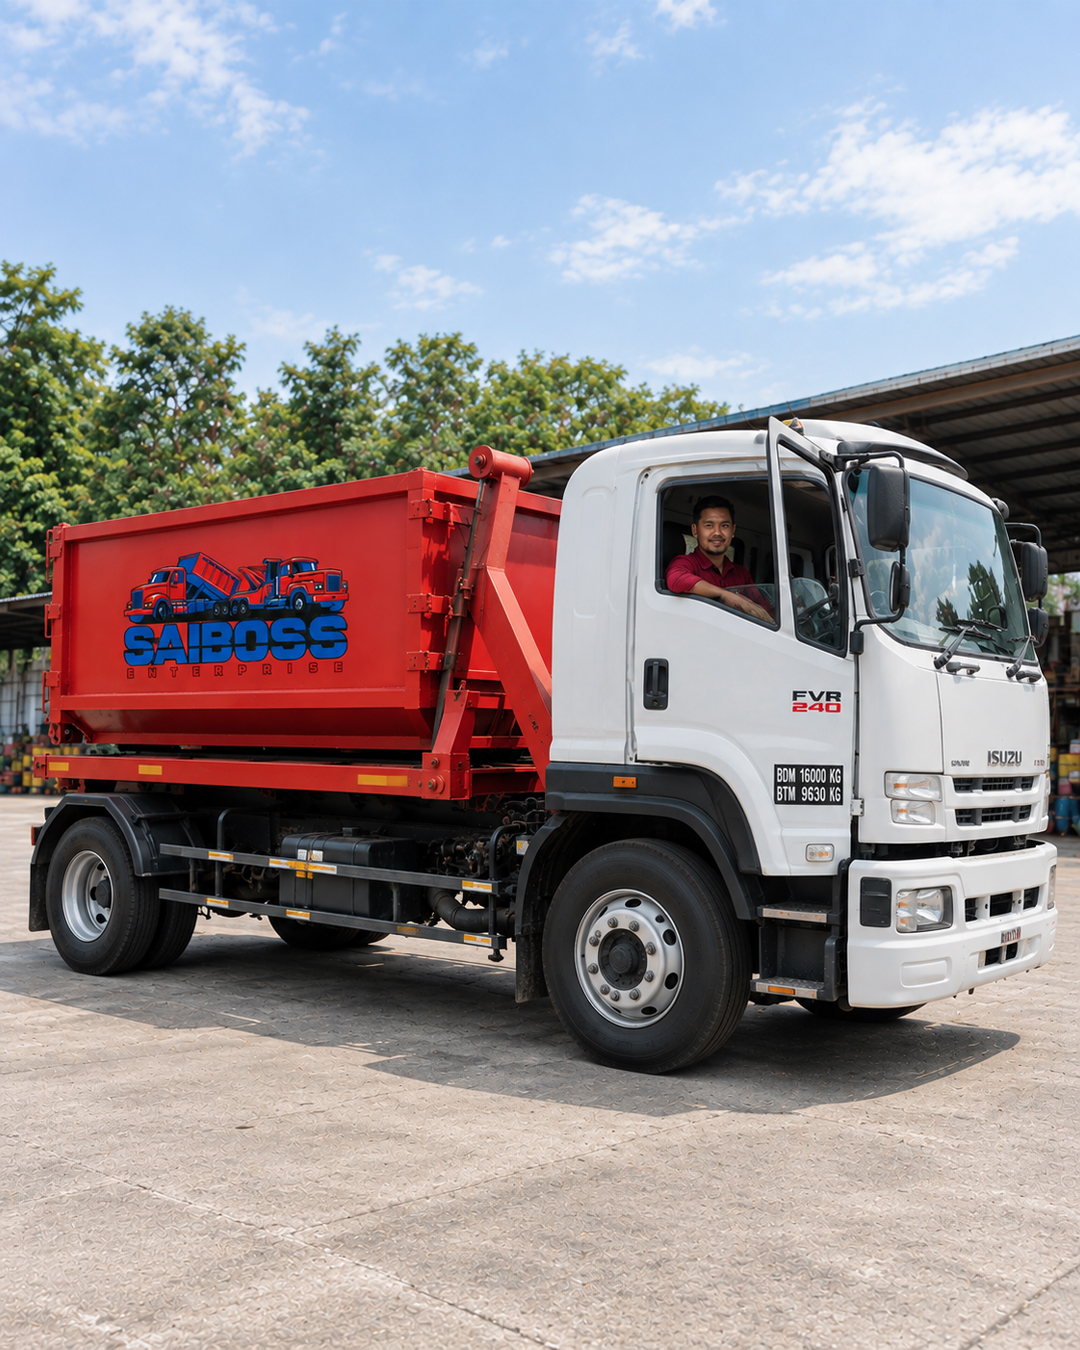
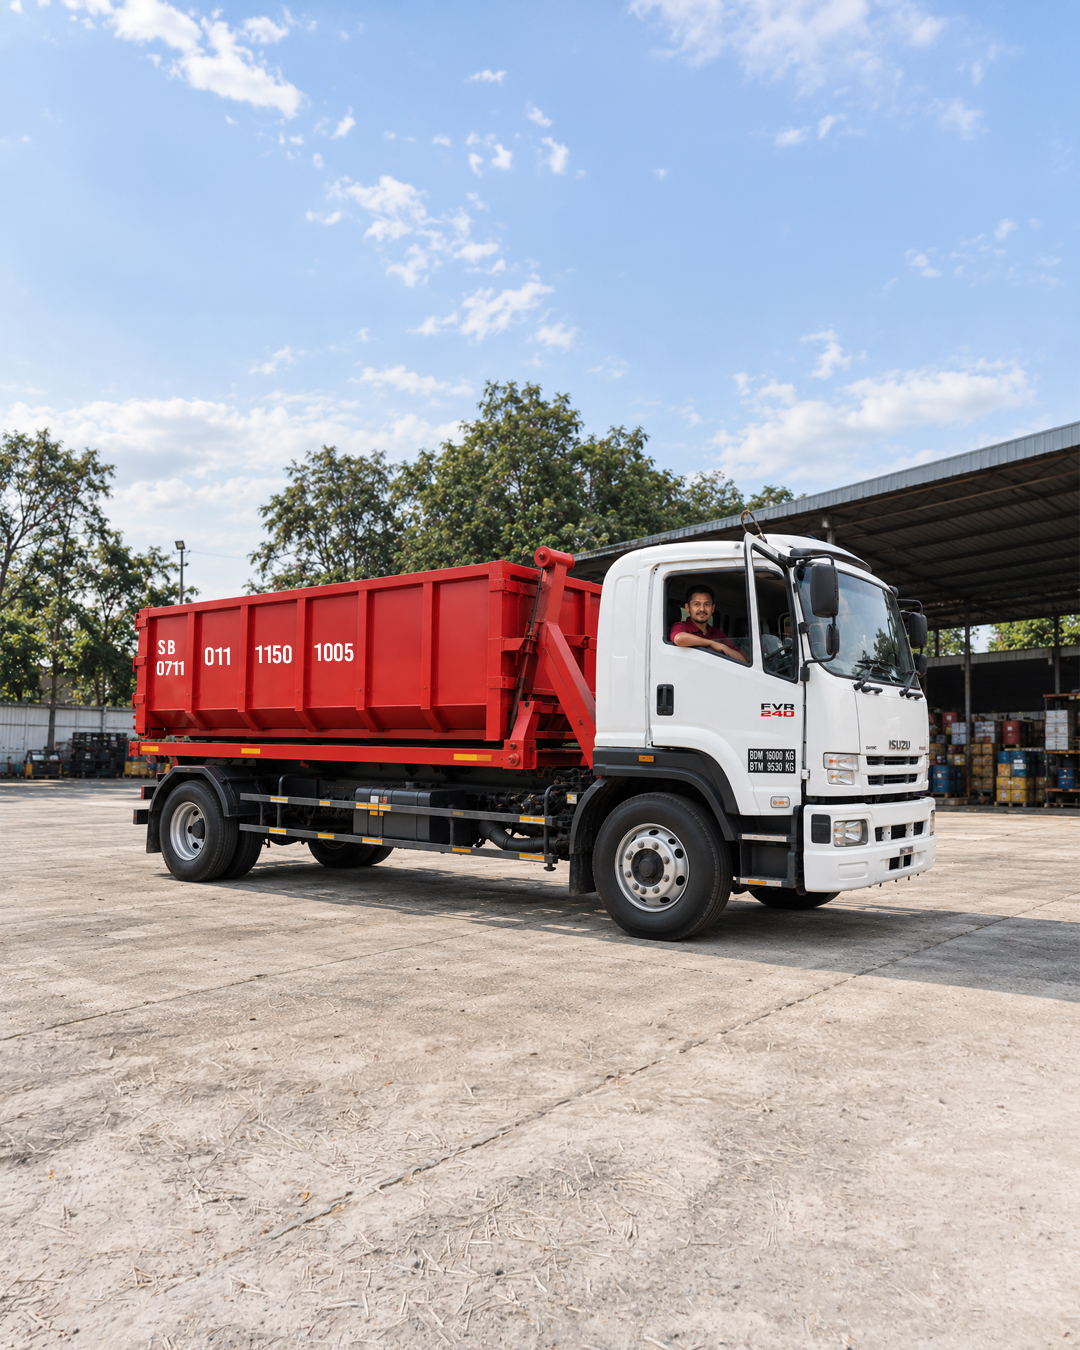
Swap in the numbered-bin retakes and make local preview work without Node
Five photos replaced under their existing filenames, so no markup
changes: the delivery banner, steps 02 and 03, and both crew portraits.
Same dimensions and composition as before; the bins now carry their
registration numbers instead of the logo, and the banner lorry has the
white cab of the real Isuzu.

Local preview: .claude/launch.json pointed only at `npx serve`, which
fails outright on a machine without Node. Adds .claude/serve.ps1, a
static server on .NET HttpListener with nothing to install, and makes it
the default config; the Node config stays as `tongrorobin-node`.

diff --git a/README.md b/README.md
@@ -12,7 +12,8 @@ Single static page, no build step, WhatsApp as the primary conversion channel.
 | `images/` | Logo, hero poster, service and crew photography, bin photo |
 | `robots.txt` | Crawl rules + sitemap pointer |
 | `sitemap.xml` | XML sitemap |
-| `.claude/launch.json` | Local preview (`npx serve`) |
+| `.claude/launch.json` | Local preview configs: PowerShell server (no dependencies) and `npx serve` |
+| `.claude/serve.ps1` | Dependency-free static server for Windows machines without Node |
 
 ## Page flow
 
@@ -117,9 +118,9 @@ checkerboard was flattened into the pixels, so it has no usable transparency).
 2. **Price.** `dari RM245` is carried over from the old lowest tier. Confirm
    it is right for the single bin.
 3. **Image weight — the biggest thing left to fix.** The newer JPGs are far
-   heavier than the originals: `banner-rorobin.jpg` 1.5MB,
+   heavier than the originals: `banner-rorobin.jpg` 1.4MB,
    `red-background.jpg` 1.4MB, `langkah-3.jpg` 1.1MB, `langkah-2.jpg` 1.0MB,
-   `pemandu-hantar-tong.jpg` 949KB, `krew-penghantaran.jpg` 908KB,
+   `krew-penghantaran.jpg` 1.0MB, `pemandu-hantar-tong.jpg` 992KB,
    `langkah-1.jpg` 778KB, `background-kl.jpg` 439KB and
    `tong_roro_technical_infographic.jpg` 287KB, against ~30-140KB for the
    WebP set. That is roughly
@@ -156,6 +157,20 @@ box at 375, 414, 600, 700, 768, 1024, 1280 and 1600px — nothing outside the
 page margin and `scrollWidth === clientWidth` at every width.
 
 ## Local preview
+
+Two configs in `.claude/launch.json`, both on port 8735:
+
+- `tongrorobin-static` — `.claude/serve.ps1`, a static server on .NET
+  `HttpListener`. Needs nothing installed beyond Windows PowerShell 5.1, which
+  is why it is the default: the Node one fails outright on a machine without
+  `npx`, and the machine this page was built on has no Node.
+- `tongrorobin-node` — `npx -y serve`, for machines that have Node.
+
+Direct invocations:
+
+```bash
+powershell -NoProfile -ExecutionPolicy Bypass -File .claude/serve.ps1
+```
 
 ```bash
 npx -y serve -l 8735 .
